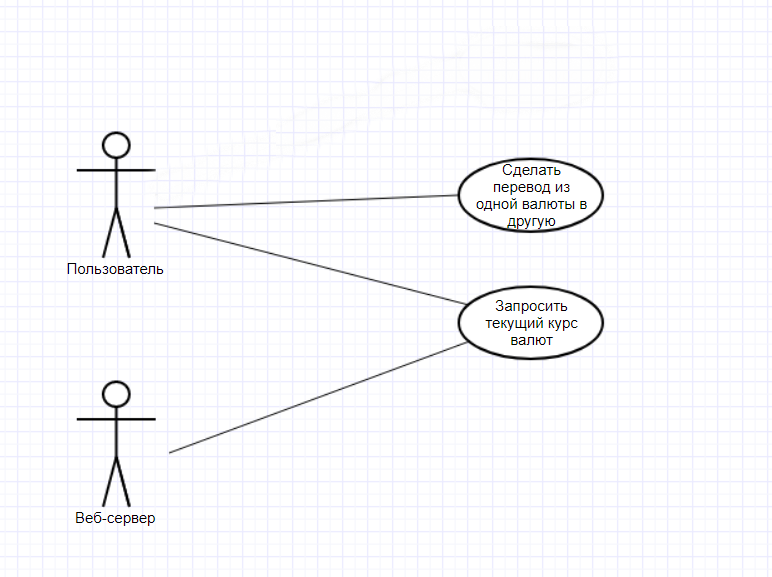
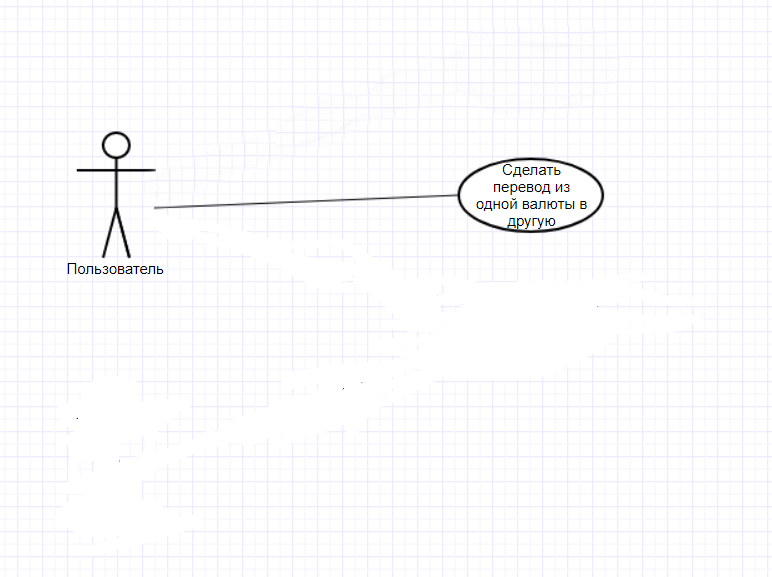
Change Use case

diff --git a/Documentation/Diagrams/README.md b/Documentation/Diagrams/README.md
@@ -2,17 +2,13 @@
 1. [Диаграмма прецедентов](#1)<br>
 1.1 [Актёры](#1.1)<br>
 1.2 [Варианты использования](#1.2)<br>
-1.2.1 [Посмотреть текущий курс валют](#1.2.1)<br>
-1.2.2 [Перевести из одной валюты в другую](#1.2.2)<br>
+1.2.1 [Перевести из одной валюты в другую](#1.2.1)<br>
 2. [Диаграмма активности](#2)<br>
 2.1 [Перевод из одной валюты в другую](#2.1)<br>
-2.2 [Посмотреть текущий курс валют](#2.2)<br>
 3. [Диаграмма последовательности](#3)<br>
 3.1 [Перевод из одной валюты в другую](#3.1)<br>
-3.2 [Посмотреть текущий курс валют](#3.2)<br>
 4. [Диаграмма состояний](#4)<br>
 4.1 [Перевод из одной валюты в другую](#4.1)<br>
-4.2 [Посмотреть текущий курс валют](#4.2)<br>
 5. [Диаграмма классов](#5)
 6. [Диаграмма компонентов](#6)<br>
 
@@ -27,16 +23,7 @@
 
 #### 1.2 Варианты использования<a name="1.2"></a>
 
-##### 1.2.1 Посмотреть текущий курс валют<a name="1.2.1">
-1.Вариант использования начинается, когда пользователь запускает приложение на ПК.
-
-2.Приложение запрашивает текущий курс валют у веб-сервера.
-
-3.Приложение выводит текущий курс. Если нет, то вызывается альтернативный поток А1.
-
-4.Вариант использования завершается
-</a>
-##### 1.2.2 Перевести из одной валюты в другую<a name="1.2.2">
+##### 1.2.1 Перевести из одной валюты в другую<a name="1.2.1">
 1.Вариант использования начинается, когда пользователь запускает приложение на ПК.
 
 2.Приложение запрашивает текущий курс валют у веб-сервера.
@@ -56,19 +43,16 @@
 ### 2. Диаграмма активности<a name="2"></a>
 #### 2.1 Перевод из одной валюты в другую<a name="2.1"></a>
 ![Active Diagram](https://github.com/Vanya112/CurrencyConverter/blob/master/Documentation/Diagrams/Activity/ActivityDiagram.png)
-#### 2.2 Посмотреть текущий курс валют<a name="2.2"></a>
   
 ### 3. Диаграмма последовательности<a name="3"></a>
 #### 3.1 Перевод из одной валюты в другую<a name="3.1"></a>
 Диаграмма последовательности основного варианта использования представляет из себя следующую диаграмму:
 ![Sequence Diagram](https://github.com/Vanya112/CurrencyConverter/blob/master/Documentation/Diagrams/Sequence/SequenceDiagram.png)
-#### 3.2 Посмотреть текущий курс валют<a name="3.2"></a>
 
 ### 4. Диаграмма состояний<a name="4"></a>
 #### 4.1 Перевод из одной валюты в другую<a name="4.1"></a>
 Диаграмма состояний представляет из себя следующую диаграмму:
 ![States Diagram](https://github.com/Vanya112/CurrencyConverter/blob/master/Documentation/Diagrams/State/StatesDiagram.png)
-#### 4.2 Посмотреть текущий курс валют<a name="4.2"></a>
 
 ### 5. Диаграмма классов<a name="5"></a>
 Диаграмма классов представляет из себя следующую диаграмму:
